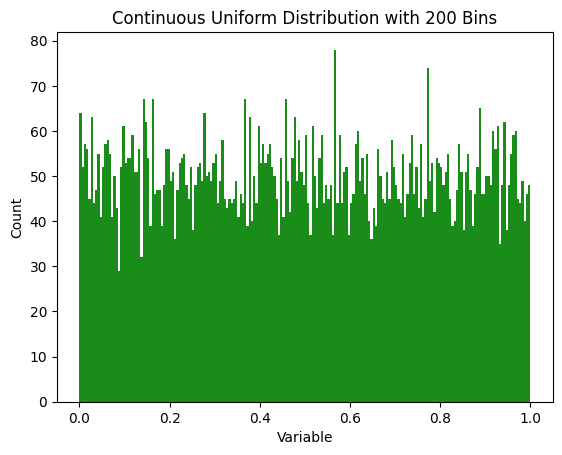
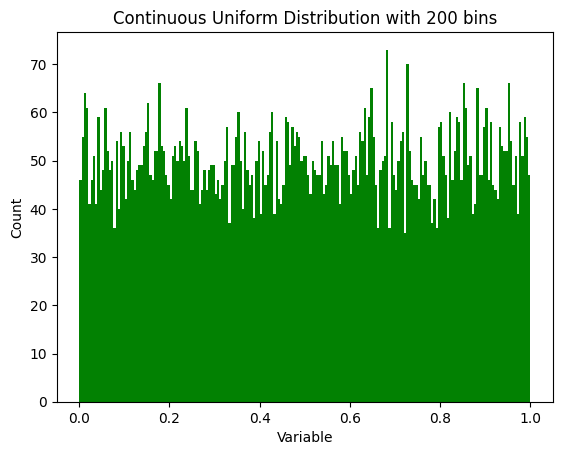
update distributions

diff --git a/_posts/2022-09-17-distributions.md b/_posts/2022-09-17-distributions.md
@@ -23,7 +23,6 @@ import matplotlib.pyplot as plt
 import numpy as np
 import seaborn as sns
 from scipy.stats import binom, norm, pareto, poisson
-from tweedie import tweedie # used for tweedie distribution; download with `pip install tweedie`
 ```
 
 
@@ -36,18 +35,30 @@ np.random.seed(0)
 
 ## Continuous Uniform Distribution
 
-The most basic distribution is the uniform distribution. In this case every value between the limits is equally likely to be called. These can be continuous or discrete. Continuous uniform distributions are also called rectangular distributions.
+The most basic distribution is the uniform distribution. In this case every value between the limits is equally likely to be selected. These can be continuous or discrete. Continuous uniform distributions are also called rectangular distributions.
 
 #### Plot
 
 
 ```python
-def plot_hist(bins):
-    num_bins = len(bins) - 1
-    plt.xlabel('Variable')
-    plt.ylabel('Count')
-    plt.title(f"Continuous Uniform Distribution with {num_bins} Bins")
-    plt.show()
+def plot_hist(
+    data,
+    num_bins=20,
+    *,
+    ax=None,
+    color='g',
+    xlabel='Variable',
+    ylabel='Count',
+    title_prefix='Continuous Uniform Distribution',
+    **hist_kw,
+):
+    ax = ax or plt.gca()
+    ax.hist(data, bins=num_bins, color=color, alpha=0.9, **hist_kw)
+    ax.set_xlabel(xlabel)
+    ax.set_ylabel(ylabel)
+    ax.set_title(f'{title_prefix} with {num_bins} bins')
+    return ax
+
 ```
 
 
@@ -63,8 +74,7 @@ x = np.random.uniform(0, 1, num_samples)
 
 ```python
 num_bins = 20
-count, bins, ignored = plt.hist(x, bins=num_bins, color='g', alpha=0.9) 
-plot_hist(bins)
+plot_hist(x, num_bins=20);
 ```
 
 
@@ -79,7 +89,7 @@ Note that the number of bins used to plot it can make it look more or less spiky
 ```python
 num_bins = 200
 count, bins, ignored = plt.hist(x, bins=num_bins, color='g', alpha=0.9) 
-plot_hist(bins)
+plot_hist(x, num_bins=200);
 ```
 
 
@@ -92,7 +102,7 @@ plot_hist(bins)
 
 Whether things are truly continuously distributed or not can be a bit of a question of definition. If time and space are quantized, then nothing in the physical world is truly a continuous uniform distribution. But these things are close enough. Some uniform distributions are:
 * Random number generators (in the ideal case)
-* If you show up to a bus stop where the bus arrives every hour but you don't know when, the arrival time will be a continuous distribution from 0-60 minutes
+* If buses run on an exact hourly schedule and you show up at a random time, your waiting time is uniformly distributed between 0 and 60 minutes.
 * Timing of asteroid impacts (roughly - it would only be continuous given a steady state of the universe, so doesn't work for very long time scales)
 
 ## Gaussian (or Normal) Distribution
@@ -228,7 +238,7 @@ plt.show()
 
 
     
-![png]({{site.baseurl}}/assets/img/2022-09-17-distributions_files/2022-09-17-distributions_40_0.png)
+![png]({{site.baseurl}}/assets/img/2022-09-17-distributions_files/2022-09-17-distributions_41_0.png)
     
 
 
@@ -282,7 +292,8 @@ import matplotlib.pyplot as plt
 
 # Set parameters
 shape = 3  # k parameter
-scale = 1/2.0  # 1/λ parameter
+rate = 2.0            # λ  → mean = 1 / λ = 0.5
+scale = 1 / rate      # θ  (what SciPy expects)
 num_samples = 10000
 
 # Generate random samples
@@ -307,7 +318,7 @@ plt.show()
 
 
     
-![png]({{site.baseurl}}/assets/img/2022-09-17-distributions_files/2022-09-17-distributions_52_0.png)
+![png]({{site.baseurl}}/assets/img/2022-09-17-distributions_files/2022-09-17-distributions_53_0.png)
     
 
 
@@ -326,7 +337,7 @@ The distribution is especially valuable when modeling systems where events must 
 
 # Discrete Distributions
 
-Lots of distributions aren't continuous, they deal with discrete predictions. For example, you can't flip 7.5 heads after 15 tries.
+Lots of distributions aren't continuous, they model discrete outcomes. For example, you can't flip 7.5 heads after 15 tries.
 
 ## Discrete Uniform Distribution
 
@@ -351,7 +362,7 @@ plt.show()
 
 
     
-![png]({{site.baseurl}}/assets/img/2022-09-17-distributions_files/2022-09-17-distributions_61_0.png)
+![png]({{site.baseurl}}/assets/img/2022-09-17-distributions_files/2022-09-17-distributions_62_0.png)
     
 
 
@@ -405,7 +416,7 @@ plt.show()
 
 
     
-![png]({{site.baseurl}}/assets/img/2022-09-17-distributions_files/2022-09-17-distributions_70_0.png)
+![png]({{site.baseurl}}/assets/img/2022-09-17-distributions_files/2022-09-17-distributions_71_0.png)
     
 
 
@@ -419,7 +430,7 @@ The Bernoulli distribution is used in scenarios involving a single event with tw
 
 ## Binomial Distribution
 
-A binomial distribution is a discrete probability distribution that models the number of successes in a fixed number of independent trials, each with the same probability of success. It is characterized by two parameters: n, the number of trials, and p, the probability of success in each trial. It can be considered an extension of the Bernoulli distribution we saw above to multiple trials. It's sort of like the discrete version of a Gaussian distribution.
+A binomial distribution is a discrete probability distribution that models the number of successes in a fixed number of independent trials, each with the same probability of success. It is characterized by two parameters: `n`, the number of trials, and `p`, the probability of success in each trial. It can be considered an extension of the Bernoulli distribution we saw above to multiple trials. For large `n` and moderate values of `p`, its shape approaches a Gaussian (normal) distribution. However, with very large `n` and very *small* `p`, it converges to a Poisson distribution.
 
 #### Plot
 
@@ -437,7 +448,7 @@ x = np.random.binomial(n=num_trials, p=prob_success)
 print(f"In this experiment, we got heads {x} times")
 ```
 
-    In this experiment, we got heads 14 times
+    In this experiment, we got heads 7 times
 
 
 But we can run this whole experiment over and over again and see what we get.
@@ -467,7 +478,53 @@ plt.show()
 
 
     
-![png]({{site.baseurl}}/assets/img/2022-09-17-distributions_files/2022-09-17-distributions_80_0.png)
+![png]({{site.baseurl}}/assets/img/2022-09-17-distributions_files/2022-09-17-distributions_81_0.png)
+    
+
+
+##### Small p version
+
+
+```python
+num_trials = 1000
+prob_success = 0.001
+```
+
+
+```python
+x = np.random.binomial(n=num_trials, p=prob_success)
+print(f"In this experiment, we got heads {x} times")
+```
+
+    In this experiment, we got heads 2 times
+
+
+
+```python
+fig = plt.figure()
+
+# Generate data
+x = np.random.binomial(n=num_trials, p=prob_success, size=num_samples)
+# you could also do this with scipy like so:
+# x = binom.rvs(n=num_trials, p=prob_success, size=num_samples)
+
+num_bins = 25
+# Define bin edges explicitly to avoid gaps
+bin_edges = np.arange(min(x), max(x) + 2)
+
+# Plot the histogram
+plt.hist(x, bins=bin_edges, density=True, color='g', alpha=0.9, rwidth=0.9)
+
+plt.xlabel('Variable')
+plt.ylabel('Probability')
+
+plt.title("Binomial Distribution (Bin size {})".format(num_bins))
+plt.show()
+```
+
+
+    
+![png]({{site.baseurl}}/assets/img/2022-09-17-distributions_files/2022-09-17-distributions_85_0.png)
     
 
 
@@ -476,6 +533,53 @@ plt.show()
 * Flipping a coin
 * Shooting free throws
 * Lots of things that seem to be Gaussian but are discrete
+
+## Negative Binomial Distribution
+
+The negative binomial distribution models the number of *failures* that occur before a fixed number of *successes* is reached in a sequence of independent Bernoulli trials. Think of it as the sibling of the binomial: instead of asking “how many successes in *n* trials?” we ask “how many trials (or failures) until *r* successes occur?”
+
+### Parameterizations
+
+* **r** – number of required successes (positive integer)  
+* **p** – probability of success on each trial (0 < p ≤ 1)
+
+The probability mass function in the “failures‑before‑success” form is  
+
+
+$$ P(X=k)=\binom{k+r-1}{k}\,(1-p)^{k}\,p^{\,r},\qquad k=0,1,2,\dots $$
+
+When \(r=1\) it reduces to the geometric distribution.
+
+### Plot
+
+
+```python
+from scipy.stats import nbinom
+import numpy as np
+import matplotlib.pyplot as plt
+import seaborn as sns
+
+# Parameters
+r = 5          # number of successes we’re waiting for
+p = 0.3        # probability of success
+num_samples = 10000
+
+# Generate samples (number of failures before the 5th success)
+data_nb = nbinom.rvs(r, p, size=num_samples)
+
+# Plot
+sns.displot(data_nb, bins=np.arange(0, max(data_nb)+2)-0.5, color='skyblue')
+plt.xlabel('Failures before {} successes'.format(r))
+plt.ylabel('Frequency')
+plt.title('Negative Binomial Distribution (r={}, p={})'.format(r, p))
+plt.show()
+```
+
+
+    
+![png]({{site.baseurl}}/assets/img/2022-09-17-distributions_files/2022-09-17-distributions_93_0.png)
+    
+
 
 ## Poisson Distribution
 
@@ -515,7 +619,7 @@ ax.fig.suptitle('Poisson Distribution')
 
 
     
-![png]({{site.baseurl}}/assets/img/2022-09-17-distributions_files/2022-09-17-distributions_89_1.png)
+![png]({{site.baseurl}}/assets/img/2022-09-17-distributions_files/2022-09-17-distributions_100_1.png)
     
 
 
@@ -527,7 +631,7 @@ ax.fig.suptitle('Poisson Distribution')
 
 #### Example
 
-Poisson distributions are very useful in predicting rare events. If once-in-a-lifetime floods occur once every hundred years, what is the chance that we have five within a hundred-year period?
+Poisson distributions are very useful in predicting rare events. If once-in-a-lifetime floods occur once every hundred years, what is the chance that we have exactly five within a hundred-year period?
 
 In this case $$ \lambda = 1 $$ and $$ k = 5 $$
 
@@ -543,13 +647,35 @@ math.exp(-1)*(1**5/math.factorial(5))
 
 
 
+If you wanted to calculate the probably of *at least* five once-in-a-lifetime floods, it would be:
+
+
+```python
+from scipy.stats import poisson
+
+lambda_val = 1
+p_at_least_5 = poisson.sf(4, lambda_val)   # sf = 1 - cdf
+
+print(f"P(X ≥ 5) = {p_at_least_5:.6f}")
+```
+
+    P(X ≥ 5) = 0.003660
+
+
 # Mixed Discrete and Continuous Distributions
+
+There are many mixed distributions as well. I'll go into detail on Tweedie distributions, but there are also zero‑inflated Poisson/negative‑binomial and hurdle models.
 
 ## Tweedie Distribution
 
 The Tweedie distribution is a family of probability distributions that encompasses a range of other well-known distributions. It is characterized by its ability to model data that exhibit a combination of discrete and continuous features, particularly useful for datasets with a significant number of zero values but also positive continuous outcomes. This makes the Tweedie distribution ideal for applications in fields such as insurance claim modeling, financial data analysis, and ecological studies, where the distribution of observed data cannot be adequately captured by simpler, more conventional distributions.
 
 #### Plot
+
+
+```python
+from tweedie import tweedie  # download with `pip install tweedie`
+```
 
 
 ```python
@@ -590,7 +716,7 @@ plt.show()
 
 
     
-![png]({{site.baseurl}}/assets/img/2022-09-17-distributions_files/2022-09-17-distributions_102_0.png)
+![png]({{site.baseurl}}/assets/img/2022-09-17-distributions_files/2022-09-17-distributions_117_0.png)
     
 
 
@@ -653,7 +779,7 @@ plt.show()
 
 
     
-![png]({{site.baseurl}}/assets/img/2022-09-17-distributions_files/2022-09-17-distributions_115_0.png)
+![png]({{site.baseurl}}/assets/img/2022-09-17-distributions_files/2022-09-17-distributions_130_0.png)
     
 
 
@@ -692,7 +818,7 @@ plt.show()
 
 
     
-![png]({{site.baseurl}}/assets/img/2022-09-17-distributions_files/2022-09-17-distributions_120_0.png)
+![png]({{site.baseurl}}/assets/img/2022-09-17-distributions_files/2022-09-17-distributions_135_0.png)
     
 
 
@@ -711,7 +837,7 @@ plt.show()
 
 
     
-![png]({{site.baseurl}}/assets/img/2022-09-17-distributions_files/2022-09-17-distributions_122_0.png)
+![png]({{site.baseurl}}/assets/img/2022-09-17-distributions_files/2022-09-17-distributions_137_0.png)
     
 
 
@@ -722,7 +848,19 @@ plt.show()
 
 ##### Recursive Nature
 
-The 80-20 rule is recursive. That is, if 20% of the people do 80% of the work, you can zoom in on those 20% and find that 20% of those do 80% of that work. So you can say something like
+The 80-20 rule is recursive. That is, if 20% of the people do 80% of the work, you can zoom in on those 20% and find that 20% of those do 80% of that work. Note that this famous “80 / 20” split is a handy mnemonic, but it is only *exact* for a particular Pareto shape parameter (α ≈ 1.16). When the underlying distribution has that parameter, the pattern is roughly self‑similar: zooming into the top 20% again leaves about 20% of them doing 80% of what remains. In that special case you can approximate:
+
+$$
+\text{share of people} \;\approx\; (0.20)^{x}, \qquad
+\text{share of work}   \;\approx\; (0.80)^{x}
+$$  
+
+for small integer \(x\).  
+
+For other shape parameters the exponents change—a heavier tail (α < 1.16) makes the concentration even more extreme, while a lighter tail (α > 1.16) less so—so treat the 80 / 20 recursion as an illustrative rule of thumb, not a mathematical law.
+
+
+Here's an example:
 
 $$ (0.2)^x $$ of the people do $$ (0.8)^x $$ of the work for any $$ x $$.
 
@@ -770,7 +908,7 @@ plt.show()
 
 
     
-![png]({{site.baseurl}}/assets/img/2022-09-17-distributions_files/2022-09-17-distributions_135_0.png)
+![png]({{site.baseurl}}/assets/img/2022-09-17-distributions_files/2022-09-17-distributions_150_0.png)
     
 
 
